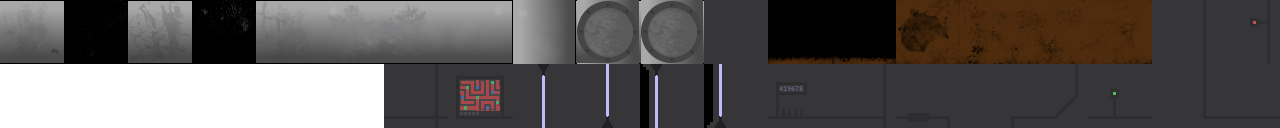
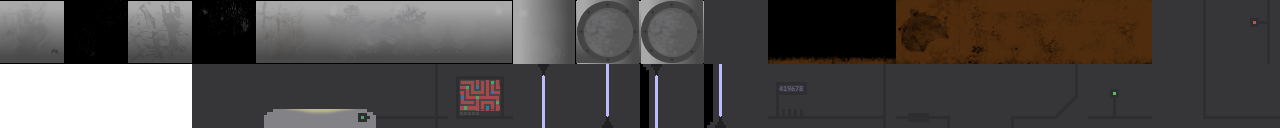
Add vertical accelerator platform tiles

Changed region(s): [[0.125, 0.5, 0.3125, 1.0]]

diff --git a/js/mainGameState.js b/js/mainGameState.js
@@ -27,7 +27,7 @@ MainGameState.prototype.create = function()
     this.map = this.game.add.tilemap('lvl1');
     this.map.addTilesetImage('lvl1tiles');
     this.map.setCollision([1, 3, 5, 6, 7, 8, 9, 10, 11, 15, 16, 17, 18], true);
-    this.map.setCollision([2, 4, 12, 13, 14, 19, 20, 28, 29, 30, 31, 32, 33, 34, 35, 36, 37, 38, 39, 40], false);
+    this.map.setCollision([2, 4, 12, 13, 14, 19, 20, 26, 27, 28, 29, 30, 31, 32, 33, 34, 35, 36, 37, 38, 39, 40], false);
     this.layer = this.map.createLayer('layer1');
     this.layer.resizeWorld();
     this.game.physics.arcade.gravity.y = 250;
